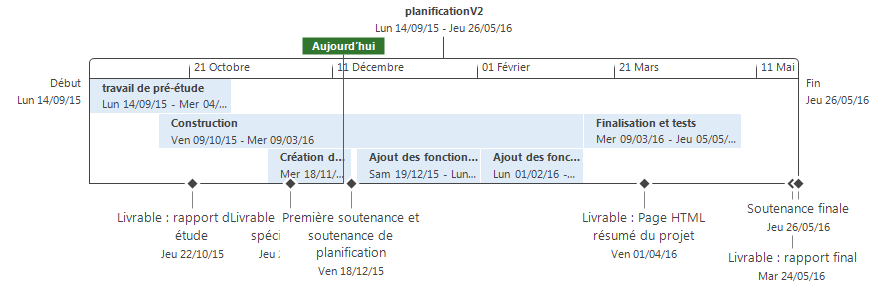
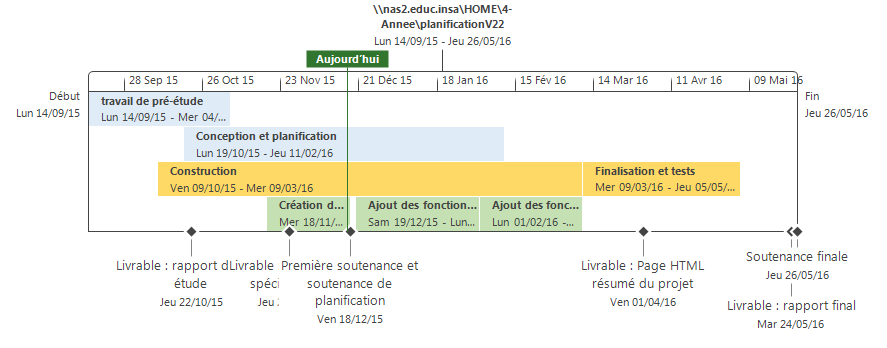
corrections partie planification

Changed region(s): [[0.0, 0.0, 1.0, 0.9394], [0.8228, 0.8485, 0.9752, 0.9697]]

diff --git a/Rapport de planification/planification.tex b/Rapport de planification/planification.tex
@@ -1,7 +1,7 @@
 \chapter{Planification}
 
 \section{Hiérarchie des tâches}
-Les différentes tâches de notre projet sont regroupée dans le tableau suivant \ref{fig::taches}. Nous n'avons représenté ici que les tâches englobantes pour une meilleure lisibilité. On retiendra notamment la partie construction encore divisée en trois partie comme le montre la figure \ref{fig::chrono}.
+Les différentes tâches de notre projet sont regroupée dans le tableau suivant \ref{fig::taches}. Nous n'avons représenté ici que les tâches englobantes pour une meilleure lisibilité. On retiendra notamment la partie construction encore divisée en trois parties comme le montre la figure \ref{fig::chrono}.
 
 Notre projet arrive ici à environ 730 heures de travail, ce qui est ce que nous avions prévu. Nous avons été généreux sur la durée des tâches au second semestre, car le changement d'effectif risque d'affecter la progression du projet.
 
@@ -32,13 +32,13 @@ Au second semestre, la capacité maximale a été réduite à 300  (700 au premi
 	\label{fig::chrono}
 \end{figure}
 
-Notre planning restera étroitement lié aux différentes étapes du suivi des mobilités. La construction de l'application se fera donc en trois étapes :
+Notre planning restera étroitement lié aux différentes étapes du suivi des mobilités. La construction de l'application se fera donc en trois étapes (en vert sur le schéma \ref{fig::chrono}) :
 \begin{itemize}
  \item la création d'un prototype proposant les fonctionnalités nécessaires à la première étape (vœux et affectations).
  \item la gestion des fichiers nécessaires à la mobilité (dépôt sur le site, et apposition électronique de la signature).
  \item le suivi des étudiants à l'étranger.
 \end{itemize}
-Nous travailleront donc de façon itérative, en proposant une application fonctionnelle, un peu plus complète à la fin de chaque étape.
+Nous travailleront donc de façon itérative, en proposant une application fonctionnelle, un peu plus complète à la fin de chaque étape. Nous vérifieront le bon fonctionnement avec des tests sur les mobilités de cette année au département INFO, avant de délivrer une nouvelle version. 
 
 
 Suite à cela, nous avons réservé beaucoup de temps à la finalisation du projet. Celui-ci étant destiné à devenir une application pérenne, au service de l'INSA de Rennes, il est nécessaire de s'assurer de sa stabilité. Nous travailleront aussi le design du site durant cette étape. 

diff --git a/Rapport de planification/RAPPORT.tex b/Rapport de planification/RAPPORT.tex
@@ -18,6 +18,8 @@
     \input{estimation}
     
     \input{planification}
+    
+    \input{conclusion}
 
 \end{document}
 
